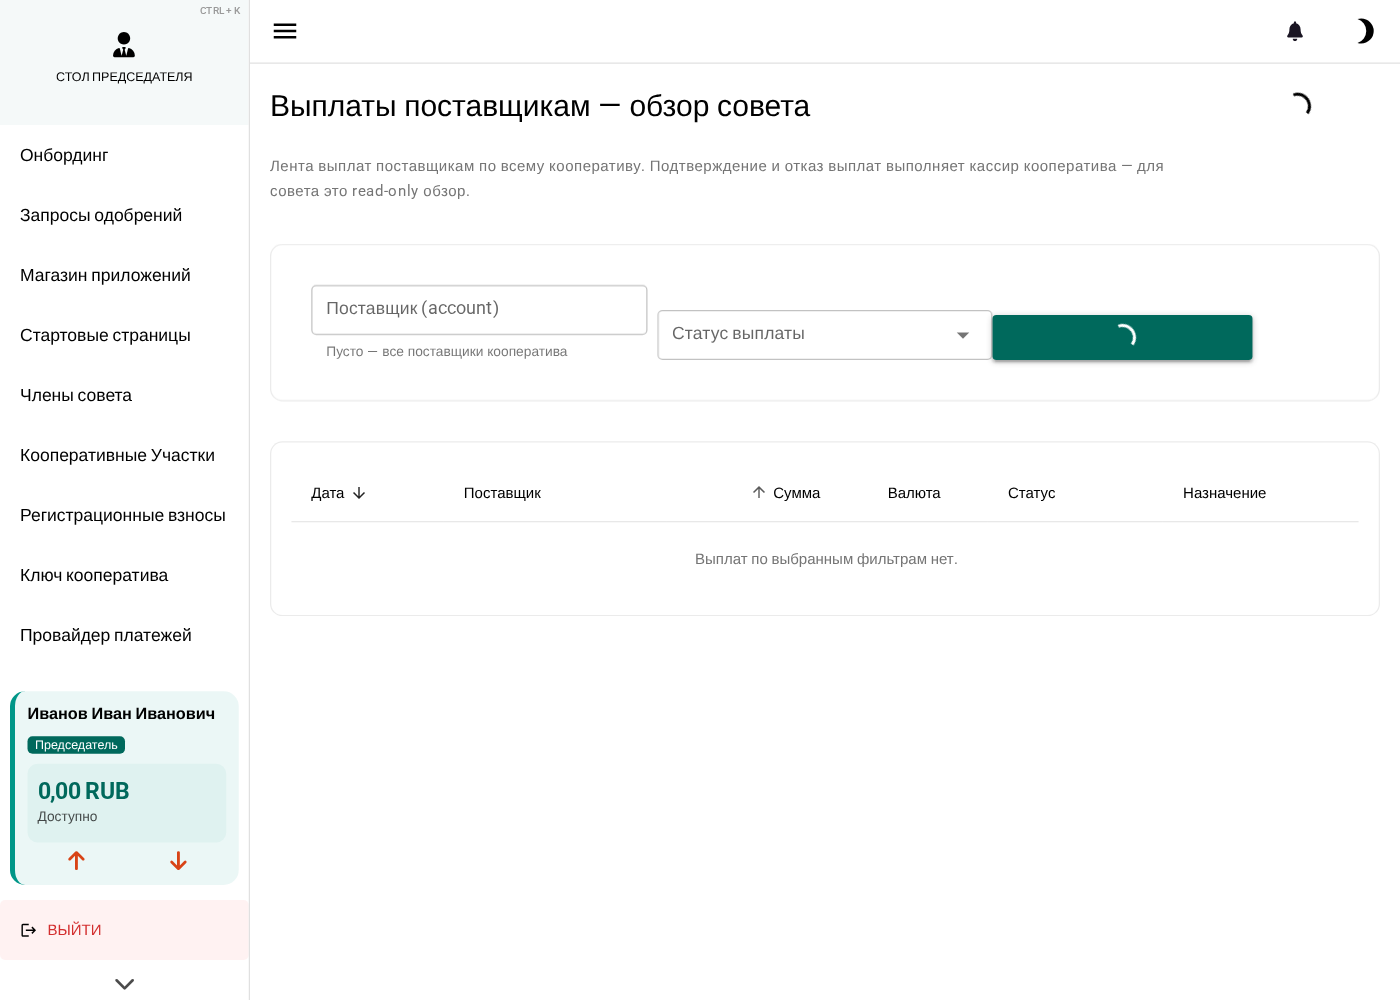
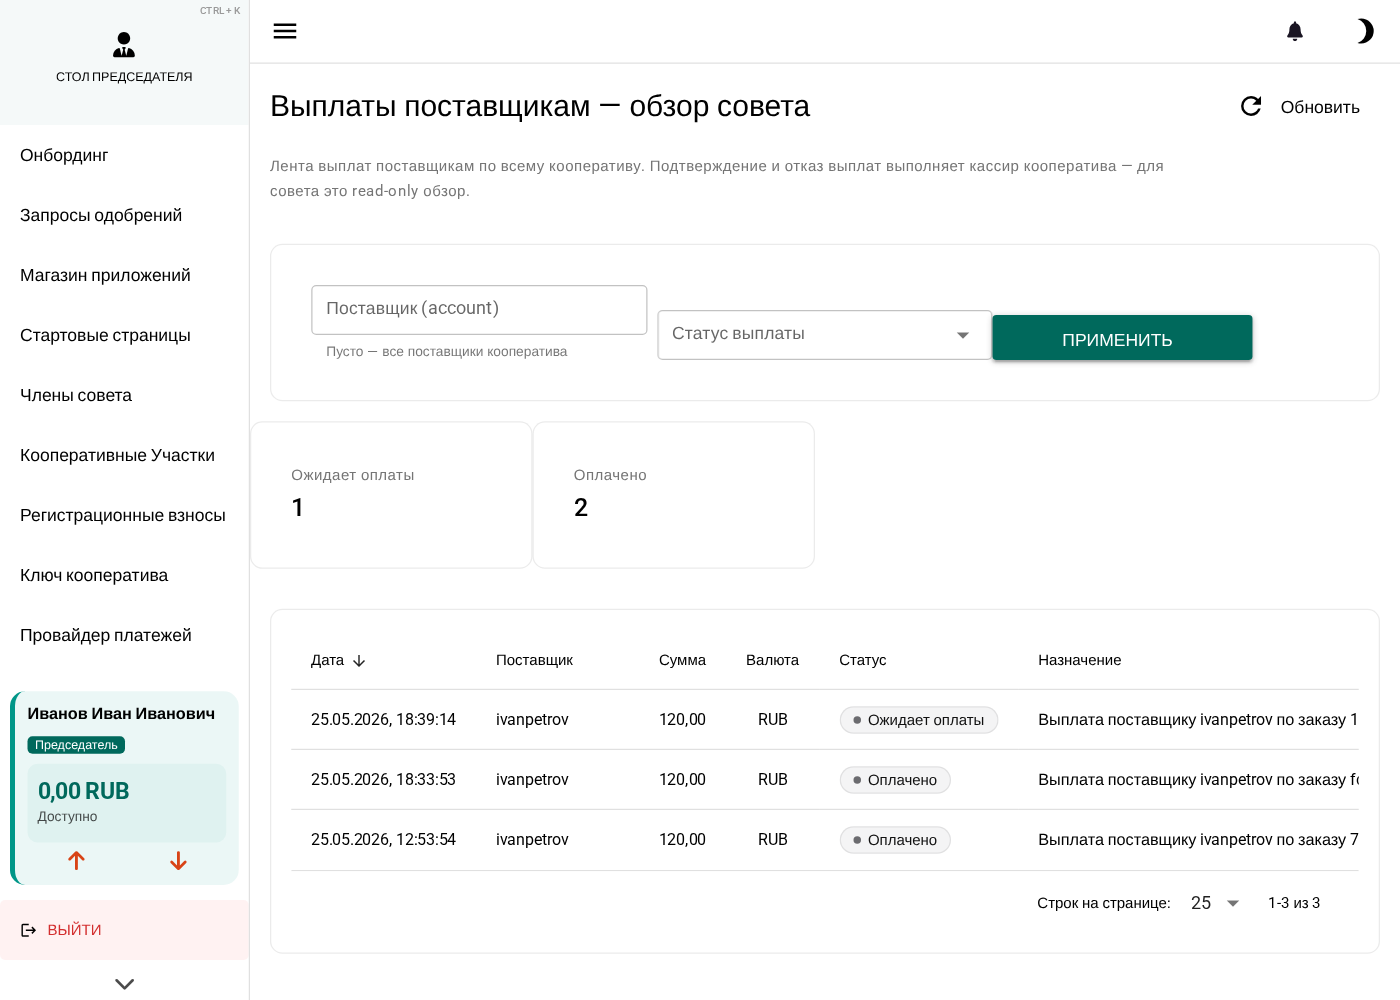
fix(marketplace-docs): ready-to-receive с реальными данными, board/payouts, удаление legacy-доков, ключ Яндекс-карт
Правки по голосовому ревью документации Marketplace:

- orderer-стол «Готово к получению»: заказ доведён по магистрали до
  READY_TO_RECEIVE (без финальной подписи), сценарий перестроен ОТ этой
  страницы (а не от вкладки «Получены»); проза уточнена — финальная подпись
  получения оформляется на столе оператора ПВЗ по штрих-коду.
- board/payouts: лента выплат показывает реальные данные (1 PENDING + 2
  COMPLETED) — данные засеяны магистралью; страница уже авто-грузится onMounted.
- удалены legacy-доки orderer/receive.md и branch-chairman/apl-reception-close.md
  + их nav-записи; висячие reference-ссылки перенаправлены на issuance-finalize /
  apl-reception-create / ready-to-receive (mkdocs --strict: по marketplace чисто).
- YANDEX_MAPS_API_KEY проброшен через EnvVars + generateConfig + fallback envCache
  (ключ только в gitignore'нутом .env; в config.default.js — пустой placeholder);
  карта Яндекса на странице ПВЗ рендерится, баннер «не задан ключ» убран; проза
  branches.md обновлена (карта есть всегда, точка — после геокодинга адреса).
- harness: устойчивая навигация ready-to-receive/pvz-list (ретрай + полный
  перезагруз против гонки core-guard/fetchRoles), ожидание DOM-рендера карты,
  dismiss онбординга на pvz-list.

diff --git a/components/desktop/src/shared/config/Environment.ts b/components/desktop/src/shared/config/Environment.ts
@@ -21,6 +21,7 @@ export interface EnvVars {
   VAPID_PUBLIC_KEY: string;
   SENTRY_DSN: string;
   OPENREPLAY_PROJECT_KEY: string;
+  YANDEX_MAPS_API_KEY: string;
 }
 
 // Расширяем глобальный Window чтобы TypeScript понимал window.__APP_CONFIG__
@@ -172,6 +173,7 @@ function getEnv(): EnvVars {
     VAPID_PUBLIC_KEY: process.env.VAPID_PUBLIC_KEY as string,
     SENTRY_DSN: process.env.SENTRY_DSN as string,
     OPENREPLAY_PROJECT_KEY: process.env.OPENREPLAY_PROJECT_KEY as string,
+    YANDEX_MAPS_API_KEY: process.env.YANDEX_MAPS_API_KEY as string,
   };
 
   isLoading = false;

diff --git a/components/desktop/src-ssr/middlewares/generateConfig.ts b/components/desktop/src-ssr/middlewares/generateConfig.ts
@@ -29,6 +29,7 @@ export default ssrMiddleware(({ app }) => {
     VAPID_PUBLIC_KEY: process.env.VAPID_PUBLIC_KEY as string,
     SENTRY_DSN: process.env.SENTRY_DSN as string,
     OPENREPLAY_PROJECT_KEY: process.env.OPENREPLAY_PROJECT_KEY as string,
+    YANDEX_MAPS_API_KEY: process.env.YANDEX_MAPS_API_KEY as string,
   });
 
   // 1. Middleware для инъекции в HTML (основной способ)

diff --git a/components/desktop/public/config.default.js b/components/desktop/public/config.default.js
@@ -29,4 +29,5 @@ window.__APP_CONFIG__ = {
   VAPID_PUBLIC_KEY: 'BLomcBkzOF0jGYU_kfZ07-dhl6_euyZKGoZb-yKcP6vzNXvb49DQgce_7EyXhL4PPwS0MklVYQbq_mzJhFiLHaw',
   SENTRY_DSN: '',
   OPENREPLAY_PROJECT_KEY: '',
+  YANDEX_MAPS_API_KEY: '',
 };

diff --git a/components/docs/docs/new/marketplace/orderer/ready-to-receive.md b/components/docs/docs/new/marketplace/orderer/ready-to-receive.md
@@ -6,10 +6,13 @@ scenario: marketplace/orderer/ready-to-receive
 
 # Стол заказчика — «Готово к получению»
 
-Раздел «Готово к получению» собирает заказы пайщика, которые уже прибыли на пункт выдачи и ждут, когда заказчик их заберёт.
+Раздел «Готово к получению» — это личная очередь пайщика: сюда попадают заказы, по которым председатель участка уже открыл выдачу. Пайщик видит, что его имущество прибыло на пункт выдачи и его можно забрать.
 
 ## Очередь к получению
 
-![Раздел «Готово к получению»: таблица с колонками заказа, ПВЗ, количества, суммы и даты открытия к выдаче](/assets/new/marketplace/orderer/ready-to-receive/01-ready-to-receive-empty.png)
+![Раздел «Готово к получению»: заказ пайщицы в статусе READY_TO_RECEIVE с колонками заказа, ПВЗ, количества, суммы и даты открытия выдачи](/assets/new/marketplace/orderer/ready-to-receive/01-ready-to-receive.png)
 
-Таблица содержит колонки: **Заказ**, **Пункт выдачи**, **Количество**, **Сумма заказа** и **Открыто к выдаче** (дата). Как только председатель участка откроет выдачу по заказу, тот появляется здесь — заказчик видит, где и что можно забрать. Когда таких заказов нет, показывается сообщение «Нет заказов, готовых к получению».
+Таблица содержит колонки: **Заказ**, **Пункт выдачи**, **Количество**, **Сумма заказа** и **Открыто к выдаче** (дата). Как только председатель участка открывает выдачу по заказу (первая подпись акта, `signiss1`), заказ появляется в этой ленте — пайщик видит, на каком ПВЗ и что именно его ждёт. Кнопка **«Обновить»** перечитывает ленту. Когда готовых к получению заказов нет, показывается сообщение «Нет заказов, готовых к получению».
+
+!!!info "Где происходит само получение"
+    Этот раздел — только сигнал «приходи на ПВЗ». Фактическая выдача с финальной подписью пайщика (`signiss2`) оформляется **на столе оператора пункта выдачи**: оператор сканирует штрих-код заказа, сверяет фактическое количество с заказанным, после чего пайщик ставит свою подпись своим приватным ключом на устройстве оператора. После этого заказ переходит в статус «Получен». См. [Финальную подпись выдачи на ПВЗ](../operator/issuance-finalize.md).

diff --git a/components/docs/docs/new/marketplace/chairman/branches.md b/components/docs/docs/new/marketplace/chairman/branches.md
@@ -12,7 +12,7 @@ scenario: marketplace/branch-chairman/pvz-list
 
 ![Список ПВЗ: карточки участков с кодом, адресом и статусом; справа — панель карты](/assets/new/marketplace/chairman/branches/01-pvz-list.png)
 
-Каждый ПВЗ — карточка с кодом участка (например, `krg`), адресом и значком статуса **«Активен»**. Действия на карточке: **«Изменить»**, **«Геокодинг»** (пересчитать координаты по адресу) и **«Деактивировать»**. Справа — панель карты с расположением пунктов.
+Каждый ПВЗ — карточка с кодом участка (например, `krg`), адресом и значком статуса **«Активен»**. Действия на карточке: **«Изменить»**, **«Геокодинг»** (пересчитать координаты по адресу) и **«Деактивировать»**. Справа — карта Яндекса с расположением пунктов.
 
-!!!note "Карта и геокодинг в этой среде"
-    На локальном стенде геокодинг и карта отключены (нет ключа картографического сервиса), поэтому вместо карты показывается заглушка, а у участков — пометка об отключённом геокодинге. В рабочей среде с заданным ключом адреса автоматически разворачиваются в точки на карте.
+!!!note "Геокодинг и точки на карте"
+    Карта подключается ключом картографического сервиса (`YANDEX_MAPS_API_KEY`). Сама карта отображается всегда, а пункт появляется на ней точкой-плейсмарком только после успешного геокодинга его адреса. Пока координаты участка не определены, под адресом видна пометка «Координаты не определены — повторите позже»; кнопка **«Геокодинг»** запускает пересчёт адреса в координаты.

diff --git a/components/docs/docs/new/marketplace/operator/orders-board.md b/components/docs/docs/new/marketplace/operator/orders-board.md
@@ -49,6 +49,6 @@ tags:
 
 Если по Заказу прошло больше N дней (типовая настройка — 7–14 дней) без появления пайщика, оператор получает напоминание «Свяжитесь с пайщиком {ФИО}». В крайних случаях имущество возвращается на склад и подаётся на списание через совет (см. [Запуск списания][writeoff]).
 
-[receive]: ../orderer/receive.md
+[receive]: ./issuance-finalize.md
 [warehouse]: ./inventory-list.md
 [writeoff]: ../chairman/writeoff-propose.md

diff --git a/components/docs/docs/new/marketplace/branch-chairman/issuance-open.md b/components/docs/docs/new/marketplace/branch-chairman/issuance-open.md
@@ -85,6 +85,6 @@ tags:
 поведение зафиксировано на скриншоте и ожидает доработки workspace-
 переключателя.
 
-[reception]: ./apl-reception-close.md
+[reception]: ../operator/apl-reception-create.md
 [ready]: ../orderer/ready-to-receive.md
-[receive]: ../orderer/receive.md
+[receive]: ../orderer/ready-to-receive.md
